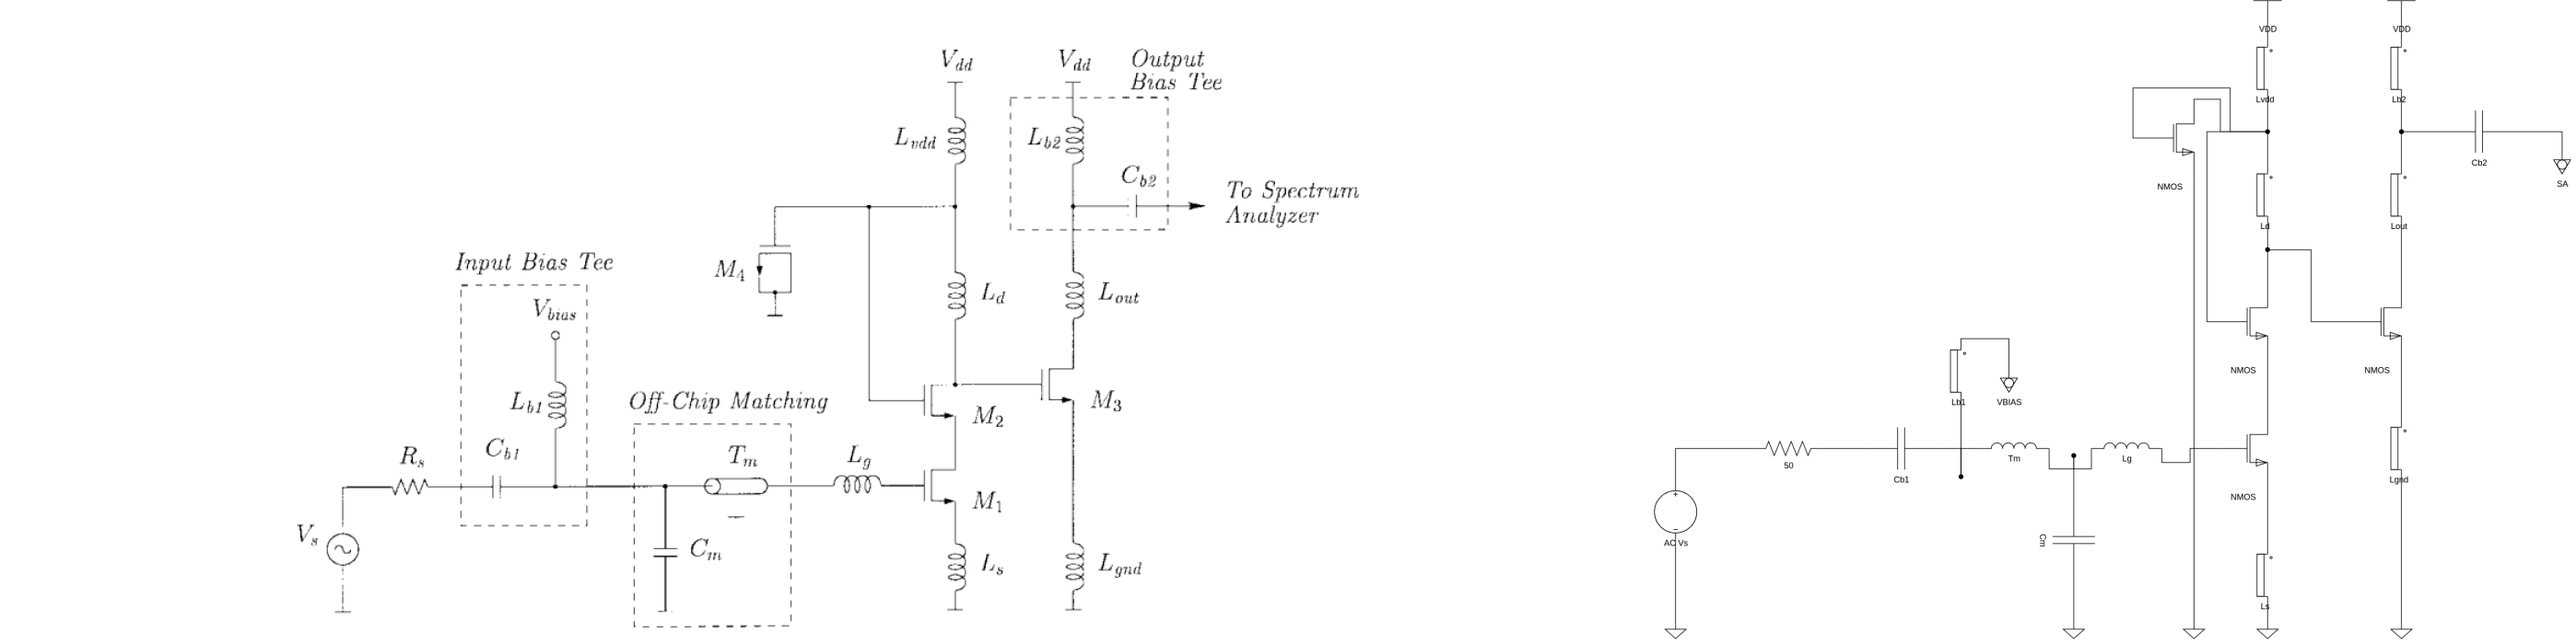
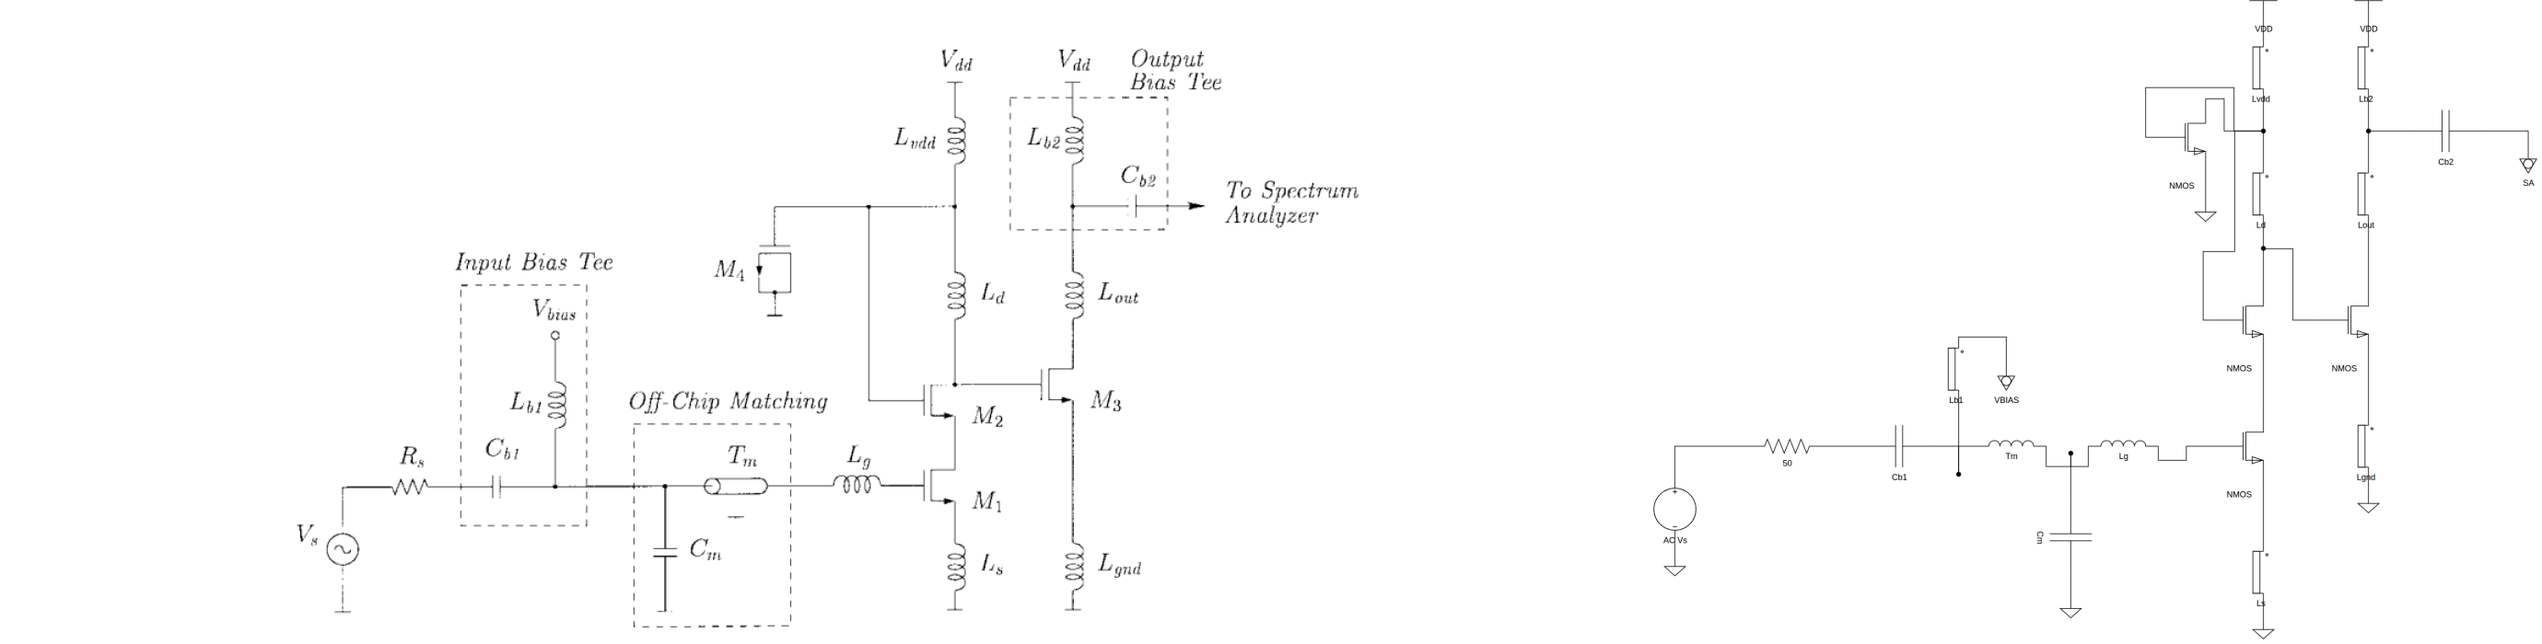
api-server: E1 iteration 4 — local ground stubs (crossings 1 -> 0)
Rule 13: every ground symbol sits directly under ITS pin (like the short
bar in published figures) instead of dropping to a common bottom line.
Kills the last crossing on the full LNA (M4's ground rail crossed the
signal chain). ERC clean, LVS 18/18, all 6 benchmark netlists LVS true.

diff --git a/api-server/lib/place2.js b/api-server/lib/place2.js
@@ -475,7 +475,9 @@ export function importNetlist2(model, parsed, opts = {}) {
         const p = placed.get(t.ref);
         const abs = pinAbs(p, t.pin);
         const id = 'GND' + (++seq);
-        addVertex(model, { id, shape: GROUND_SHAPE, x: abs.x - 15, y: Math.max(...[...placed.values()].map((q) => q.y + q.h)) + 40, w: 30, h: 20 });
+        // masse LOCALE : juste sous le pin (comme le petit trait des figures
+        // publiées), jamais un long rail vers une ligne de fond commune
+        addVertex(model, { id, shape: GROUND_SHAPE, x: abs.x - 15, y: abs.y + 45, w: 30, h: 20 });
         const gp = getPin(GROUND_SHAPE, GROUND_PIN);
         wire(null, { source: t.ref, target: id, sourcePin: { x: t.pin.x, y: t.pin.y }, targetPin: { x: gp.x, y: gp.y } });
       }

diff --git a/api-server/training/RULES.md b/api-server/training/RULES.md
@@ -78,3 +78,11 @@ Ma copie : **38** → règles ci-dessous → **20** (croisements 9 → 1).
 Reste vers ~4 : boucle de la diode M4 + son rail de masse (règle « masse
 locale » toujours candidate), T de Cm, montée Lb1.
 Poids : excess_bend (1.4) a correctement guidé ces 4 règles — inchangé.
+
+### E1 (itération 4) — masse locale
+
+13. **Masse locale** : chaque symbole de masse se pose juste sous SON pin
+    (comme le petit trait des figures publiées), jamais relié à une ligne de
+    fond commune. Résultat : croisements 1 → 0 sur le LNA complet (le rail de
+    M4 traversait la chaîne) ; coudes 20 → 22 (+2 assumés, le stub coûte un
+    coude mais tue le croisement). ERC 0/0, LVS 18/18, 6/6 benchmarks LVS.
